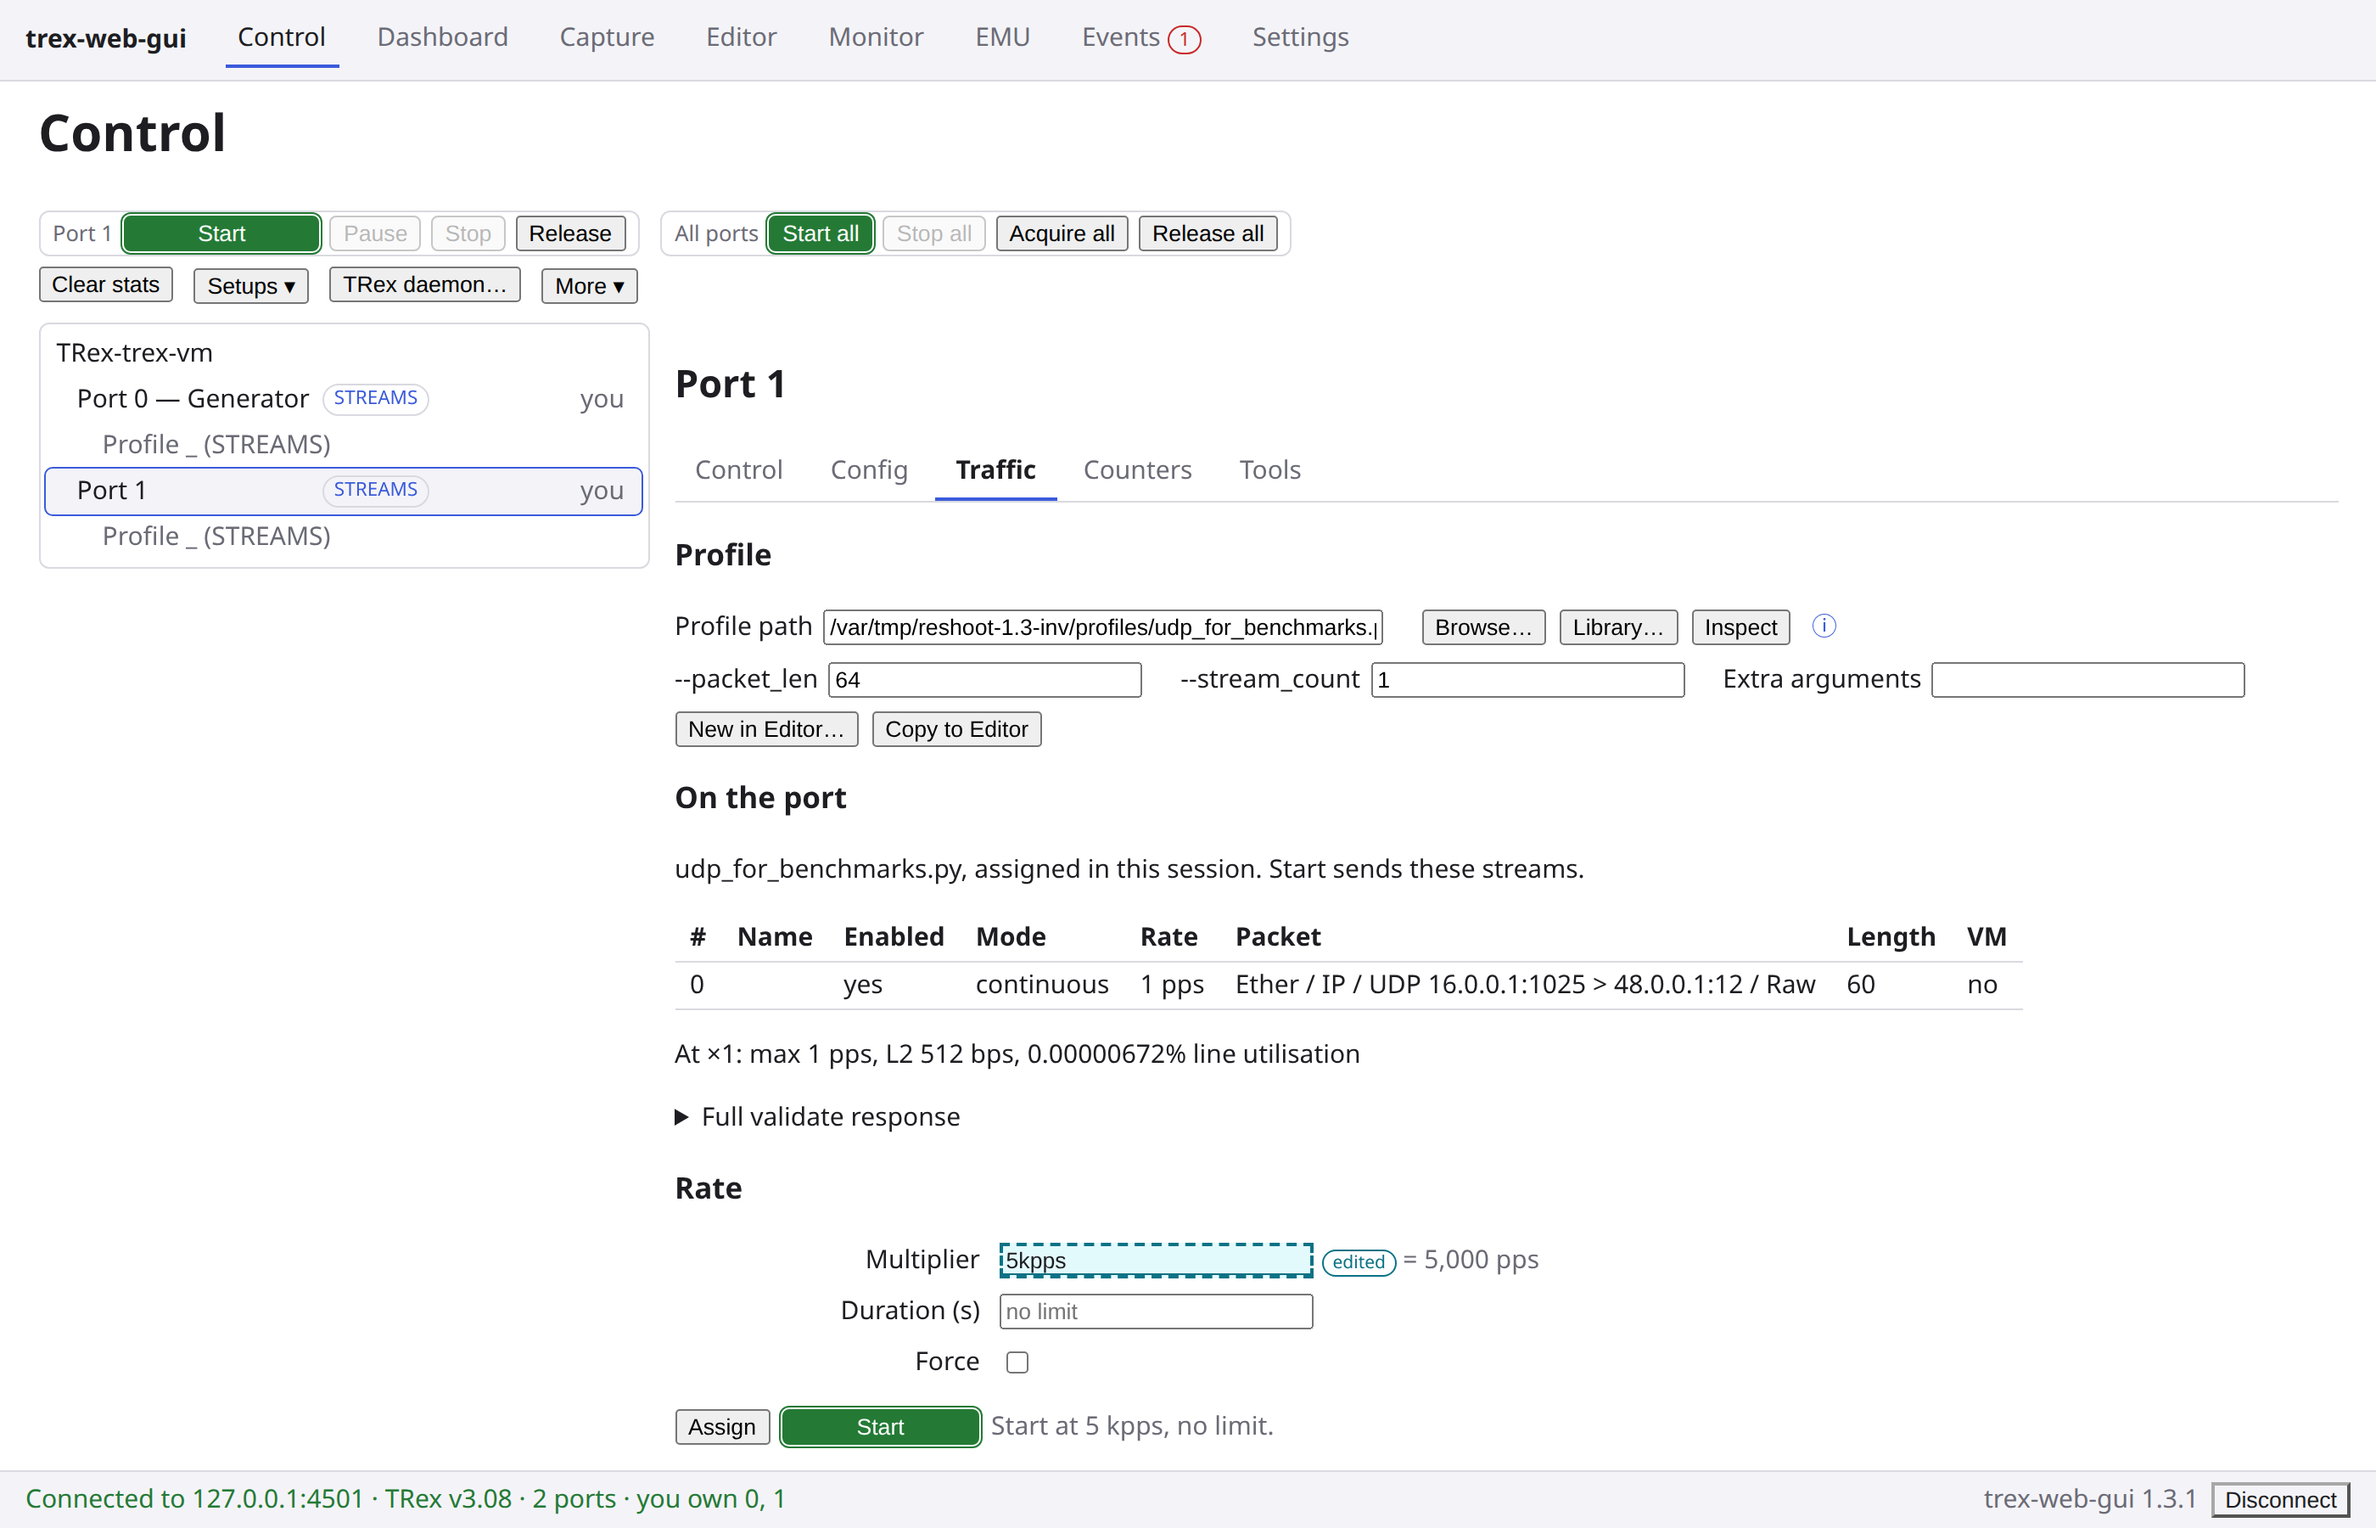
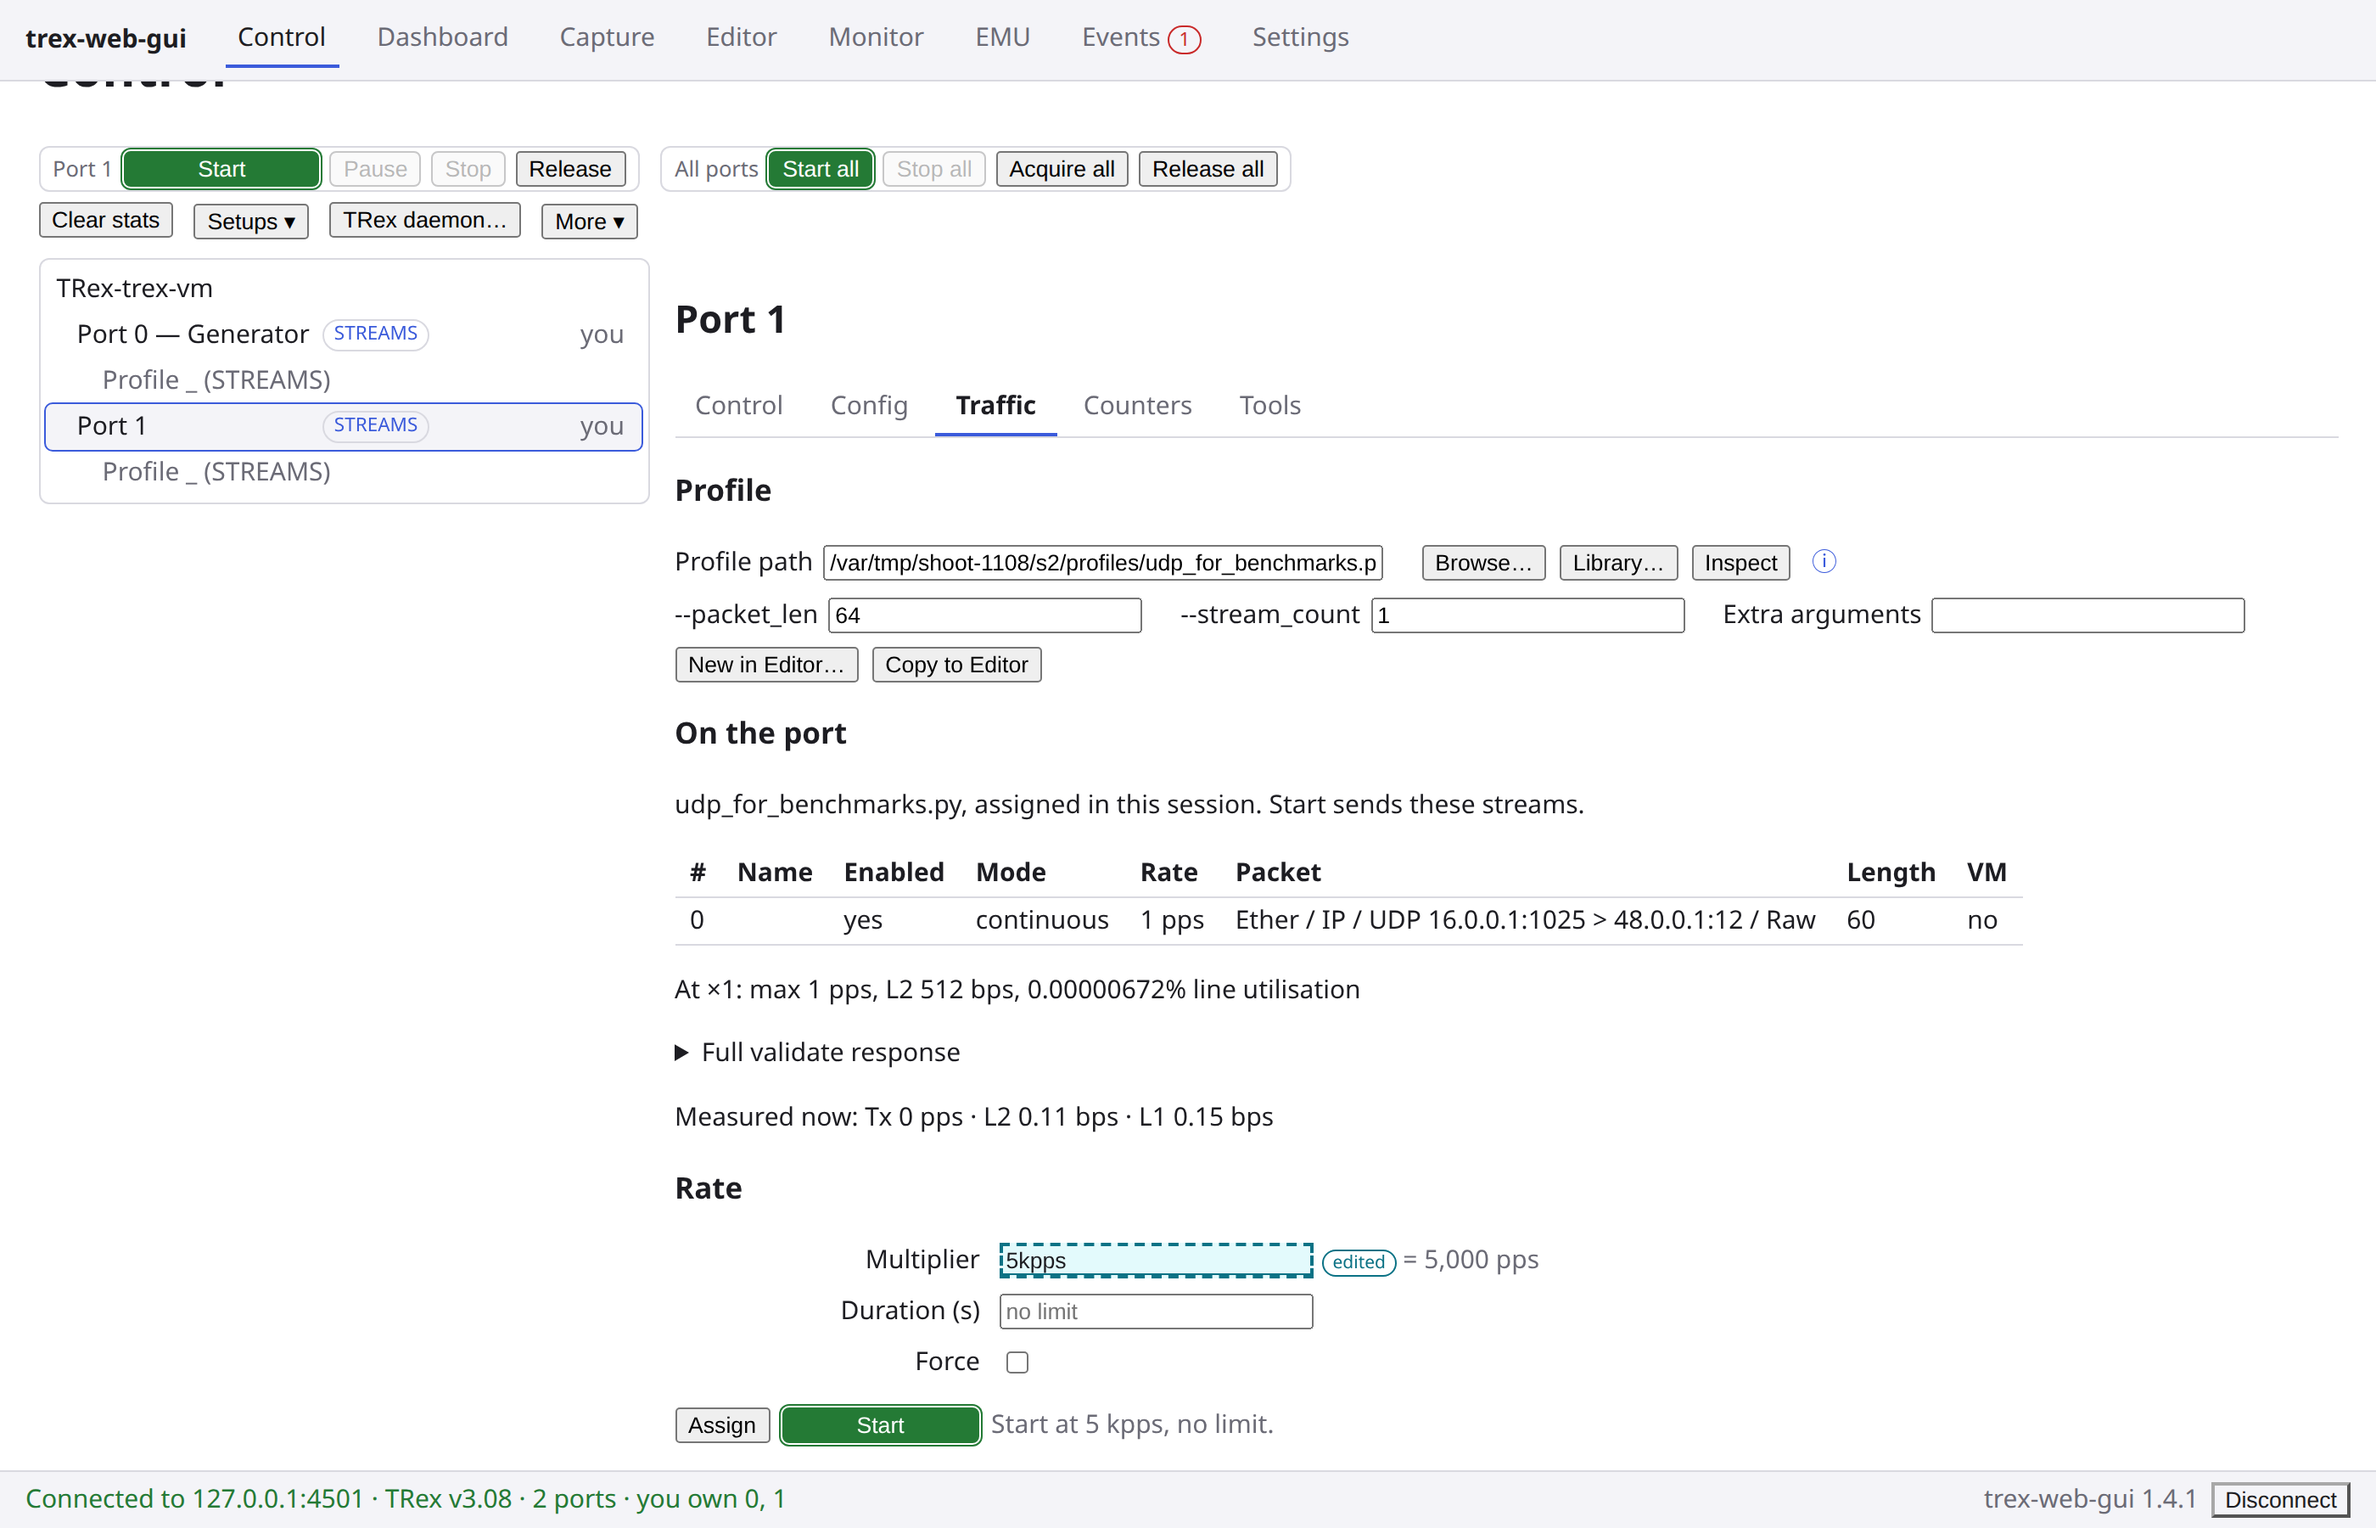
Re-shoot the Traffic tab screens for the measured rate
The 18 inventory shots and 2 HOWTO shots that show the Traffic tab's "On the
port" section now carry PR #110's "Measured now" line; the others are
unchanged. vm/shoot_inventory.py waits before shot 24 until the measured rate
reads the 5 kpps asked for, so 24 and 25 no longer show a rate still ramping
up. The inventory README records the re-shoot.

diff --git a/vm/shoot_inventory.py b/vm/shoot_inventory.py
@@ -592,6 +592,12 @@ async def step_port_tabs(c):
     await b.click("About profile paths", "button", "[role=tabpanel]")
     await b.click("Start", "button", "[role=tabpanel]")
     await b.wait_text("TX")
+    # The live stats lag Start by a few ticks: shoot once "Measured now" reads the 5 kpps asked for (within
+    # 10 %), so 24 and 25 do not show a rate still ramping up beside the requested one.
+    await b.wait("[...document.querySelectorAll('[role=tabpanel] p')].some((p) => {"
+                 " const m = /^Measured now: Tx ([\\d.]+) kpps/.exec(p.textContent);"
+                 " return m && +m[1] >= 4.5 })",
+                 20, "the measured rate at 5 kpps")
     await b.shot("24-port-traffic-transmitting")
     await b.fill("Multiplier", "8kpps")
     await b.key("Enter")               # typing alone never starts the countdown; Enter commits

diff --git a/docs/gui-inventory/README.md b/docs/gui-inventory/README.md
@@ -2,6 +2,15 @@
 
 ## Scope
 
+**Traffic tab shots re-shot for the measured rate (2026-11-08).** The Traffic tab's **On the port** section now ends
+with "Measured now: Tx … · L2 … · L1 …" (ui-recs-3), so the 18 shots that show it were shot again on `main` after PR
+#110: [21](screens/21-port-traffic-empty.png), [23](screens/23-port-traffic-inspected.png)-[25](screens/25-port-traffic-update.png),
+[115](screens/115-traffic-profile-note.png), [94](screens/94-control-library-pick.png) and the Test setups dialogs over
+the tab, [68](screens/68-save-setup-filled.png)-[73](screens/73-manage-setups-edits-since-load.png) and
+[76](screens/76-manage-setups-run-failed-assign.png)-[81](screens/81-manage-setups-other-server.png), and the HOWTO's 07
+and 15. `vm/shoot_inventory.py` now waits before 24 until the measured rate reads the 5 kpps asked for, so 24 and 25 do
+not show a rate still ramping up. The other shots are unchanged.
+
 **Re-shot after 1.3.1 (2026-11-07).** Every screen was shot again on `main` after 1.3.1 (About,
 [57](screens/57-settings-about.png), shows `1.3.1` and 17 vendor patches), against the same guest, and the HOWTO's and
 the EMU HOWTO's screens with them. Every top bar now reads **Editor**, and the Editor shots show the Profiles and
